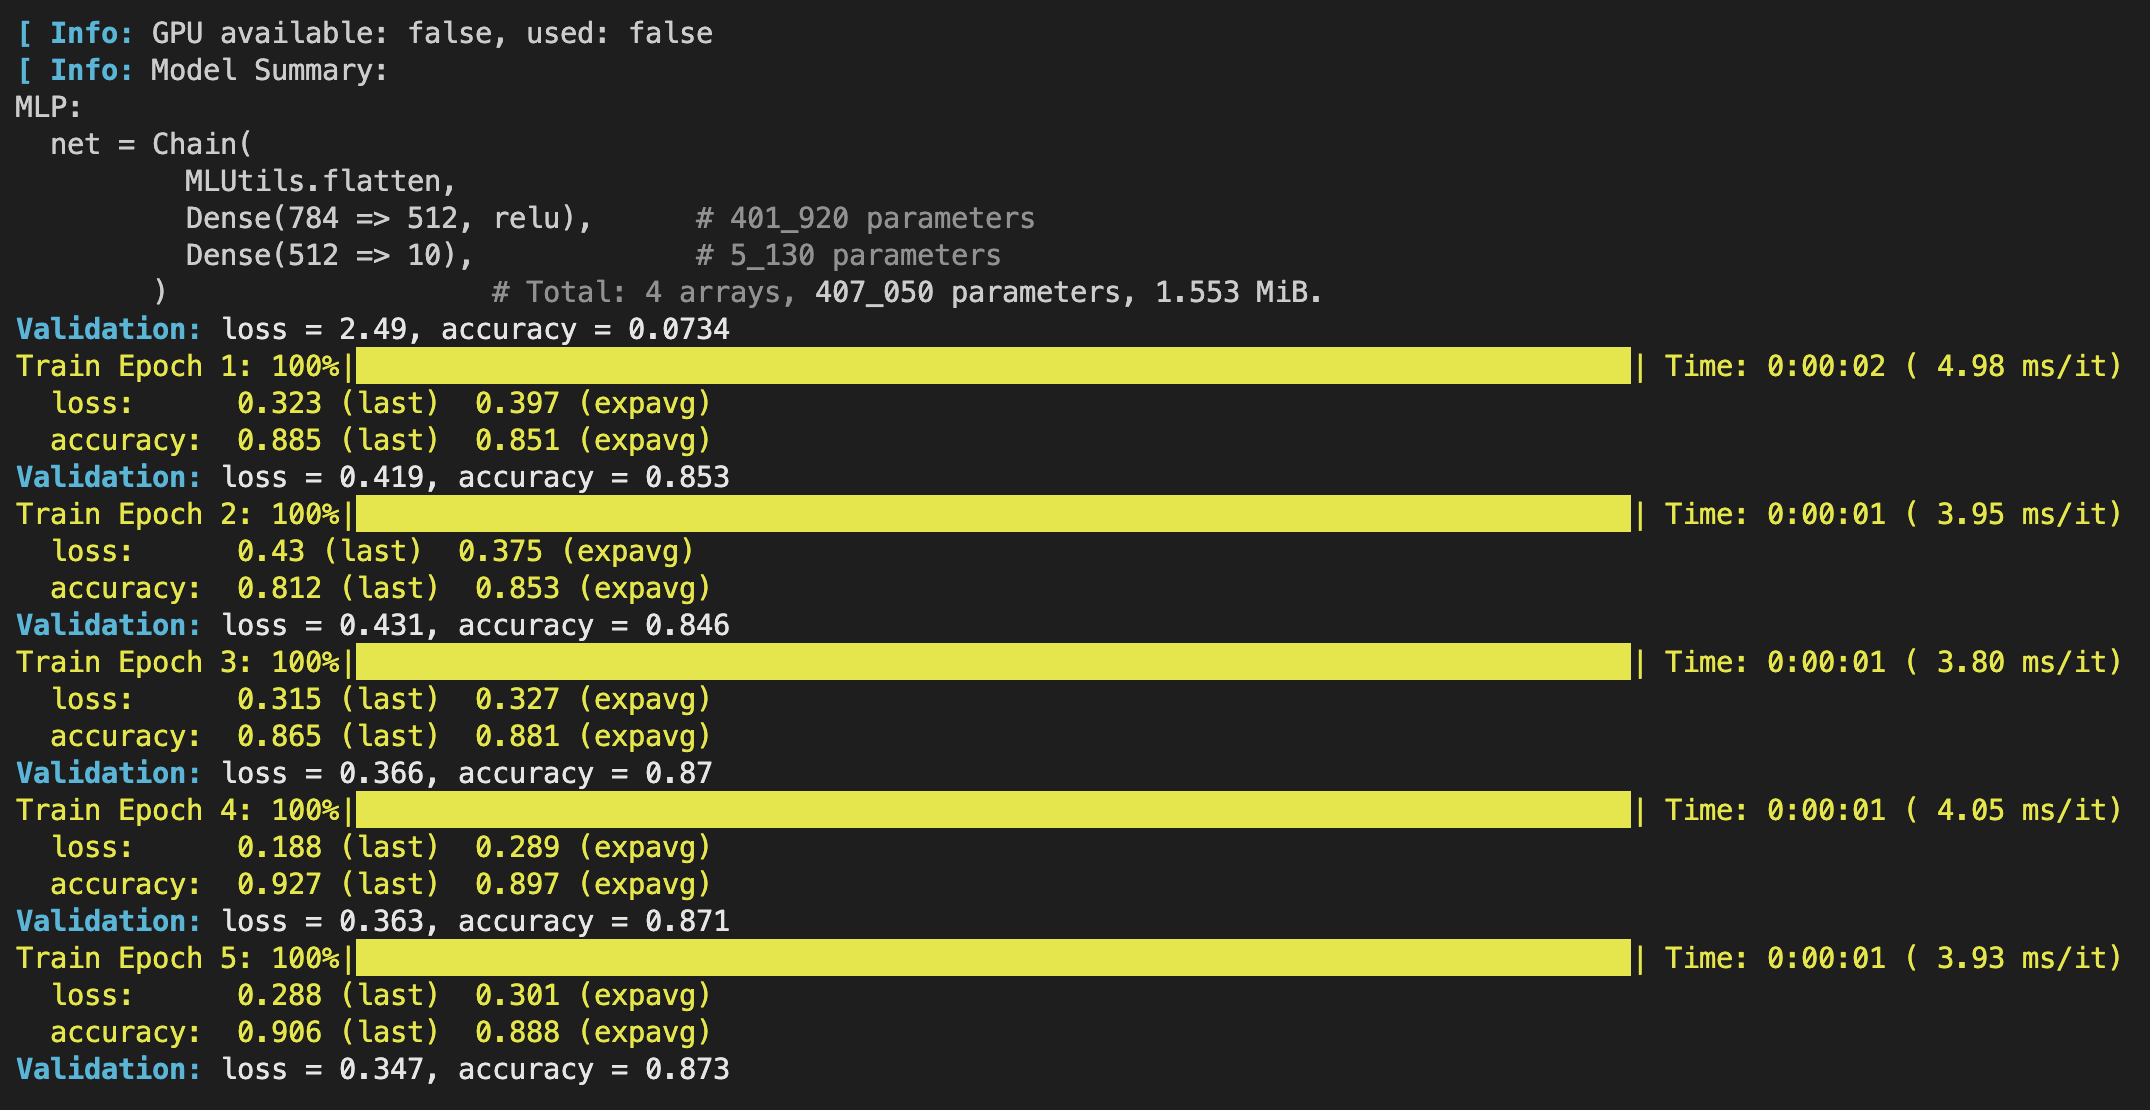
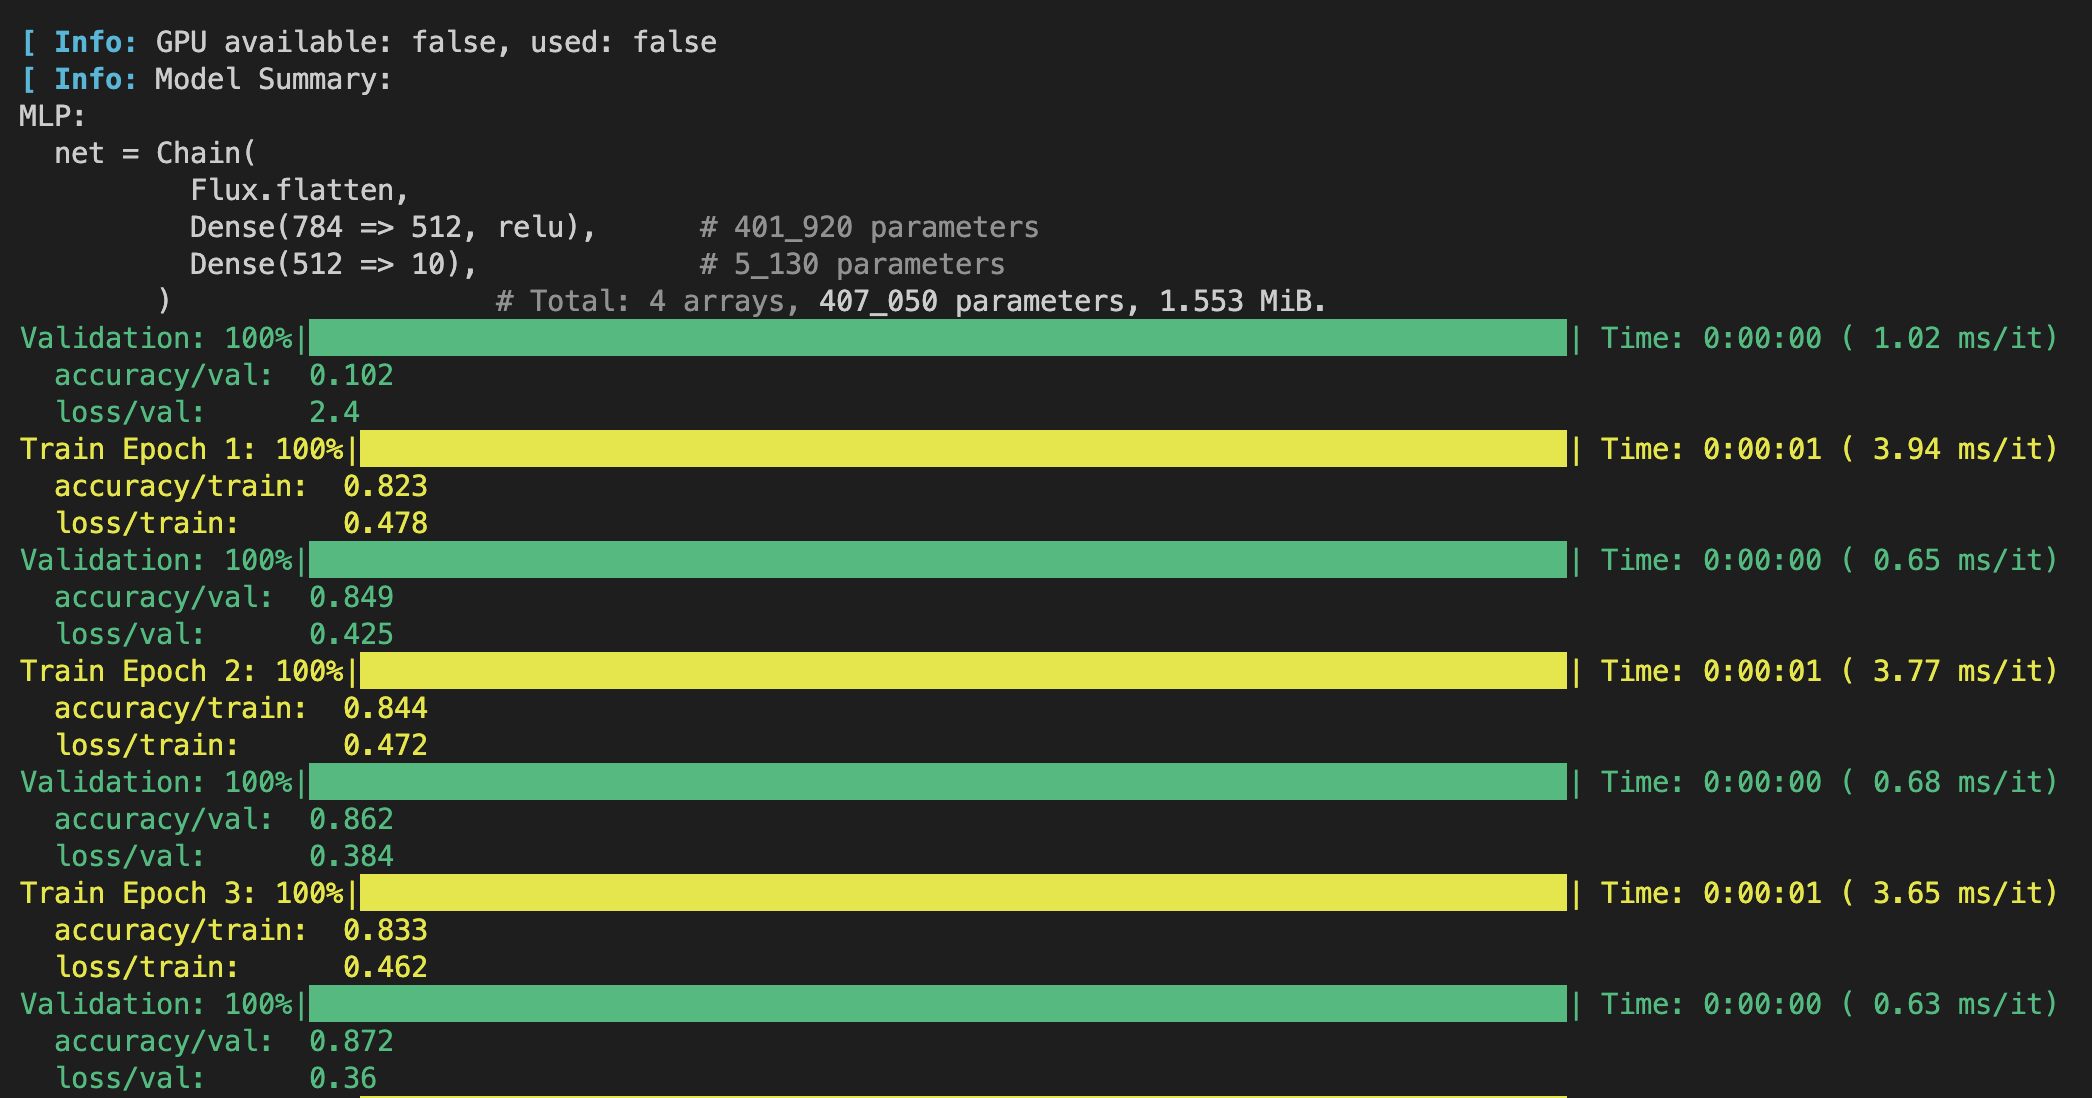
docs

Changed region(s): [[0.0, 0.1858, 0.9943, 1.0], [0.0, 0.0, 0.3418, 0.2477]]

diff --git a/docs/src/index.md b/docs/src/index.md
@@ -29,7 +29,71 @@ pkg> add https://github.com/CarloLucibello/Tsunami.jl
 ## Usage Examples
 
 Define your model subtyping the `FluxModule` abstract type, implement a few required methods, then let the `Trainer`
-train the model on your dataset with `fit!`. Tsunami will handle all of the boilerplate (training loop, loggin, gpu movement, validation, ...).
+train the model on your dataset with `fit!`. Tsunami will handle all of the boilerplate (training loop, logging, gpu movement, validation, ...).
+
+```julia
+using Flux, Optimisers, Statistics, Tsunami, HuggingFaceDatasets, ImageCore
+using Flux: DataLoader, flatten, mapobs
+
+## Define the model 
+
+mutable struct MLP <: FluxModule
+    net
+end
+
+MLP() = MLP(Chain(flatten,
+                Dense(28^2 => 512, relu), 
+                Dense(512 => 10)))
+
+(model::MLP)(x) = model.net(x)
+
+function Tsunami.training_step(model::MLP, trainer, batch, batch_idx)
+    x, y = batch
+    ŷ = model(x)
+    loss = Flux.Losses.logitcrossentropy(ŷ, y)
+    Tsunami.log(trainer, "loss/train", loss, prog_bar=true)
+    Tsunami.log(trainer, "accuracy/train", Tsunami.accuracy(ŷ, y), prog_bar=true)
+    return loss
+end
+
+
+function Tsunami.validation_step(model::MLP, trainer, batch, batch_idx)
+    x, y = batch
+    ŷ = model(x)
+    loss = Flux.Losses.logitcrossentropy(ŷ, y)
+    Tsunami.log(trainer, "loss/val", loss)
+    Tsunami.log(trainer, "accuracy/val", Tsunami.accuracy(ŷ, y))
+    return loss
+end
+
+Tsunami.configure_optimisers(model::MLP, trainer) = 
+    Optimisers.setup(Optimisers.AdamW(1e-3), model)
+
+## Prepare the data
+
+function mnist_transform(batch)
+    image = ImageCore.channelview.(batch["image"])
+    image = Flux.batch(image) ./ 255f0
+    label = Flux.onehotbatch(batch["label"], 0:9)
+    return (; image, label)
+end
+
+train_data = load_dataset("fashion_mnist", split="train").with_format("julia")
+train_data = mapobs(mnist_transform, train_data)[:]
+train_loader = DataLoader(train_data, batchsize=128, shuffle=true)
+
+test_data = load_dataset("fashion_mnist", split="test").with_format("julia")
+test_data = mapobs(mnist_transform, test_data)[:]
+test_loader = DataLoader(test_data, batchsize=128)
+
+## Create and train the model
+
+model = MLP()
+trainer = Trainer(max_epochs=5)
+Tsunami.fit!(model, trainer; train_dataloader=train_loader, val_dataloader=test_loader);
+```
+
+<img src="https://raw.githubusercontent.com/CarloLucibello/Tsunami.jl/main/docs/src/assets/readme_output.png">
 
 See the folder [examples/](https://github.com/CarloLucibello/Tsunami.jl/tree/main/examples) for usage examples.
 

diff --git a/README.md b/README.md
@@ -32,7 +32,7 @@ train the model on your dataset with `Tsunami.fit!`. Tsunami will handle all of 
 In the following script we train a Multilayer Perceptron on the FashionMNIST dataset using Tsunami:
 ```julia
 using Flux, Optimisers, Statistics, Tsunami, HuggingFaceDatasets, ImageCore
-using Flux: DataLoader, flatten, mapobs # from MLUtils.jl
+using Flux: DataLoader, flatten, mapobs
 
 ## Define the model 
 
@@ -48,9 +48,21 @@ MLP() = MLP(Chain(flatten,
 
 function Tsunami.training_step(model::MLP, trainer, batch, batch_idx)
     x, y = batch
-    ŷ = model(x)    
-    return (loss = Flux.Losses.logitcrossentropy(ŷ, y), 
-            accuracy = mean(Flux.onecold(ŷ) .== Flux.onecold(y)))
+    ŷ = model(x)
+    loss = Flux.Losses.logitcrossentropy(ŷ, y)
+    Tsunami.log(trainer, "loss/train", loss, prog_bar=true)
+    Tsunami.log(trainer, "accuracy/train", Tsunami.accuracy(ŷ, y), prog_bar=true)
+    return loss
+end
+
+
+function Tsunami.validation_step(model::MLP, trainer, batch, batch_idx)
+    x, y = batch
+    ŷ = model(x)
+    loss = Flux.Losses.logitcrossentropy(ŷ, y)
+    Tsunami.log(trainer, "loss/val", loss)
+    Tsunami.log(trainer, "accuracy/val", Tsunami.accuracy(ŷ, y))
+    return loss
 end
 
 Tsunami.configure_optimisers(model::MLP, trainer) = 
@@ -77,7 +89,7 @@ test_loader = DataLoader(test_data, batchsize=128)
 
 model = MLP()
 trainer = Trainer(max_epochs=5)
-Tsunami.fit!(model, trainer; train_dataloader=train_loader, val_dataloader=test_loader)
+Tsunami.fit!(model, trainer; train_dataloader=train_loader, val_dataloader=test_loader);
 ```
 
 What follows is the final output of the script. The script will train the model on CUDA gpus if available and will also write tensorboard logs and

diff --git a/docs/src/callbacks.md b/docs/src/callbacks.md
@@ -1,7 +1,7 @@
 # Callbacks
 
-Callbacks are functions that are called at certain points in the training process. They are useful for logging, early stopping, and other tasks. Callbacks are passed to the [`fit!`](@ref) function as a list of callbacks.
-
+Callbacks are functions that are called at certain points in the training process. They are useful for logging, early stopping, and other tasks. Callbacks are passed to the [`fit!`](@ref) function as a list,
+and implement their functionality by implementing a subset of the [Hooks](@ref).
 
 ## Available Callbacks
 
@@ -15,5 +15,5 @@ Tsunami.load_checkpoint
 ## Writing Custom Callbacks
 
 See the implementation of [`Checkpointer`](@ref) and the 
-Hooks section of the documentation for more information
+[Hooks](@ref) section of the documentation for more information
 on how to write custom callbacks.

diff --git a/docs/src/hooks.md b/docs/src/hooks.md
@@ -72,6 +72,7 @@ end
 ## Hooks API
 
 ```@docs
+Tsunami.on_test_epoch_end
 Tsunami.on_train_epoch_end
 Tsunami.on_validation_epoch_end
 ```

diff --git a/docs/src/logging.md b/docs/src/logging.md
@@ -1,0 +1,5 @@
+# Logging 
+
+```@docs
+Tsunami.log
+```
